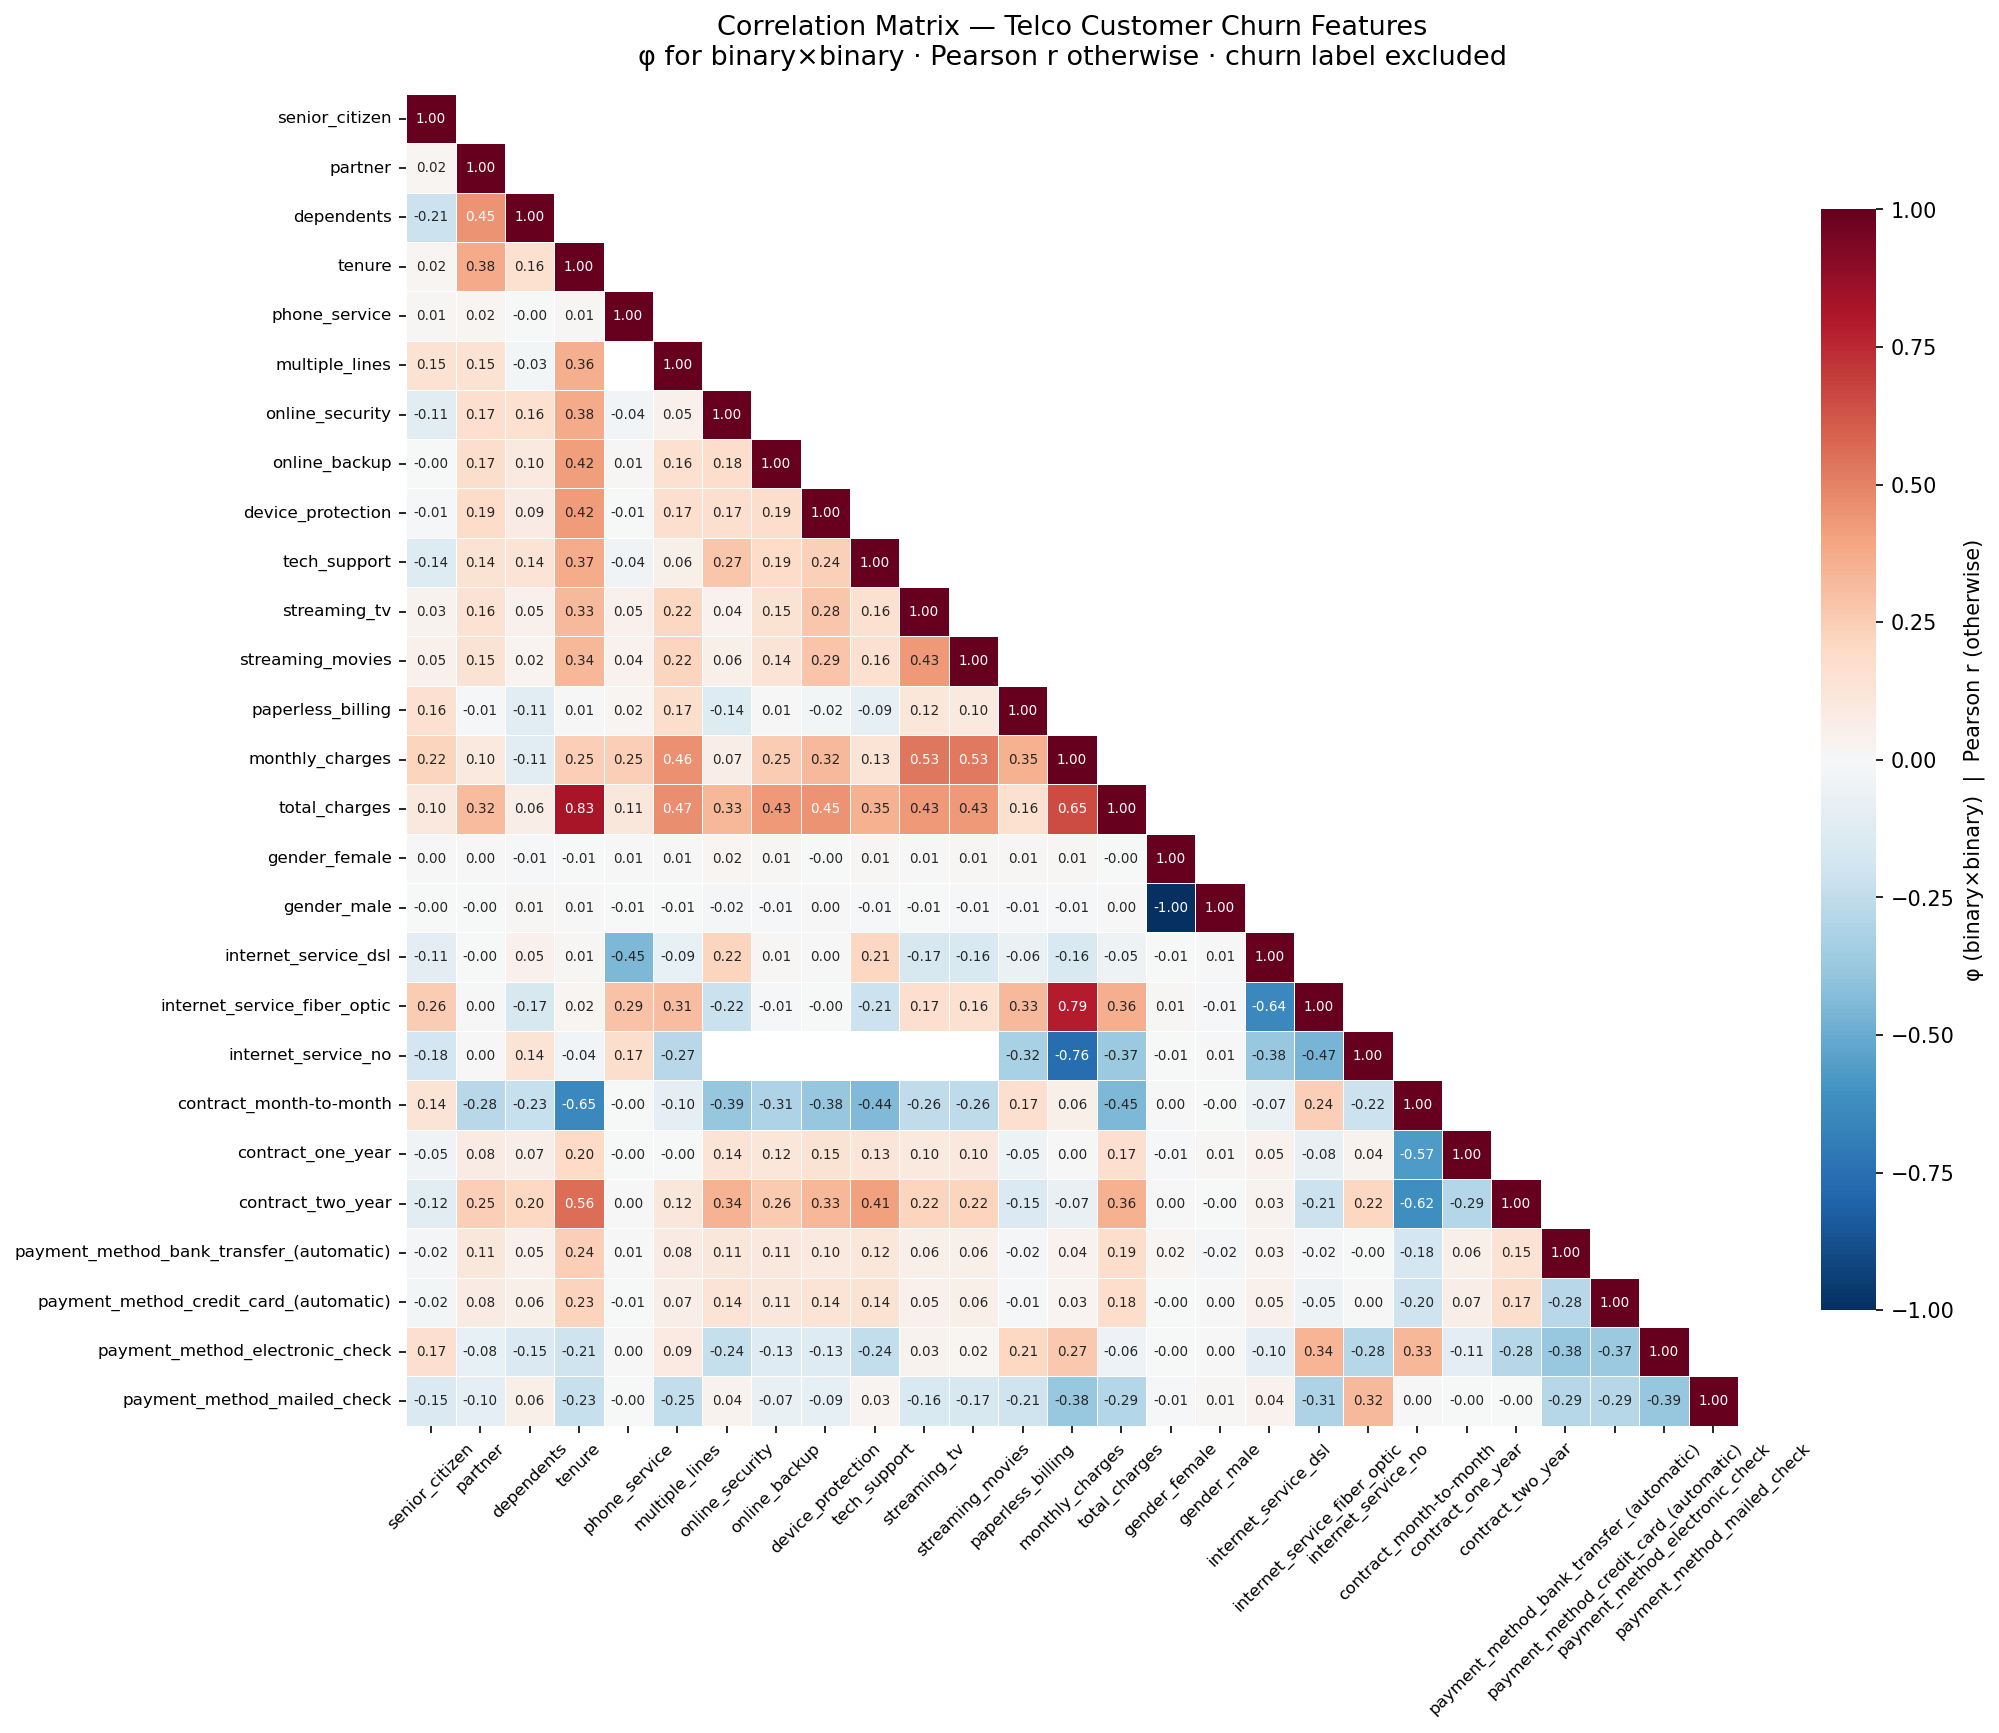
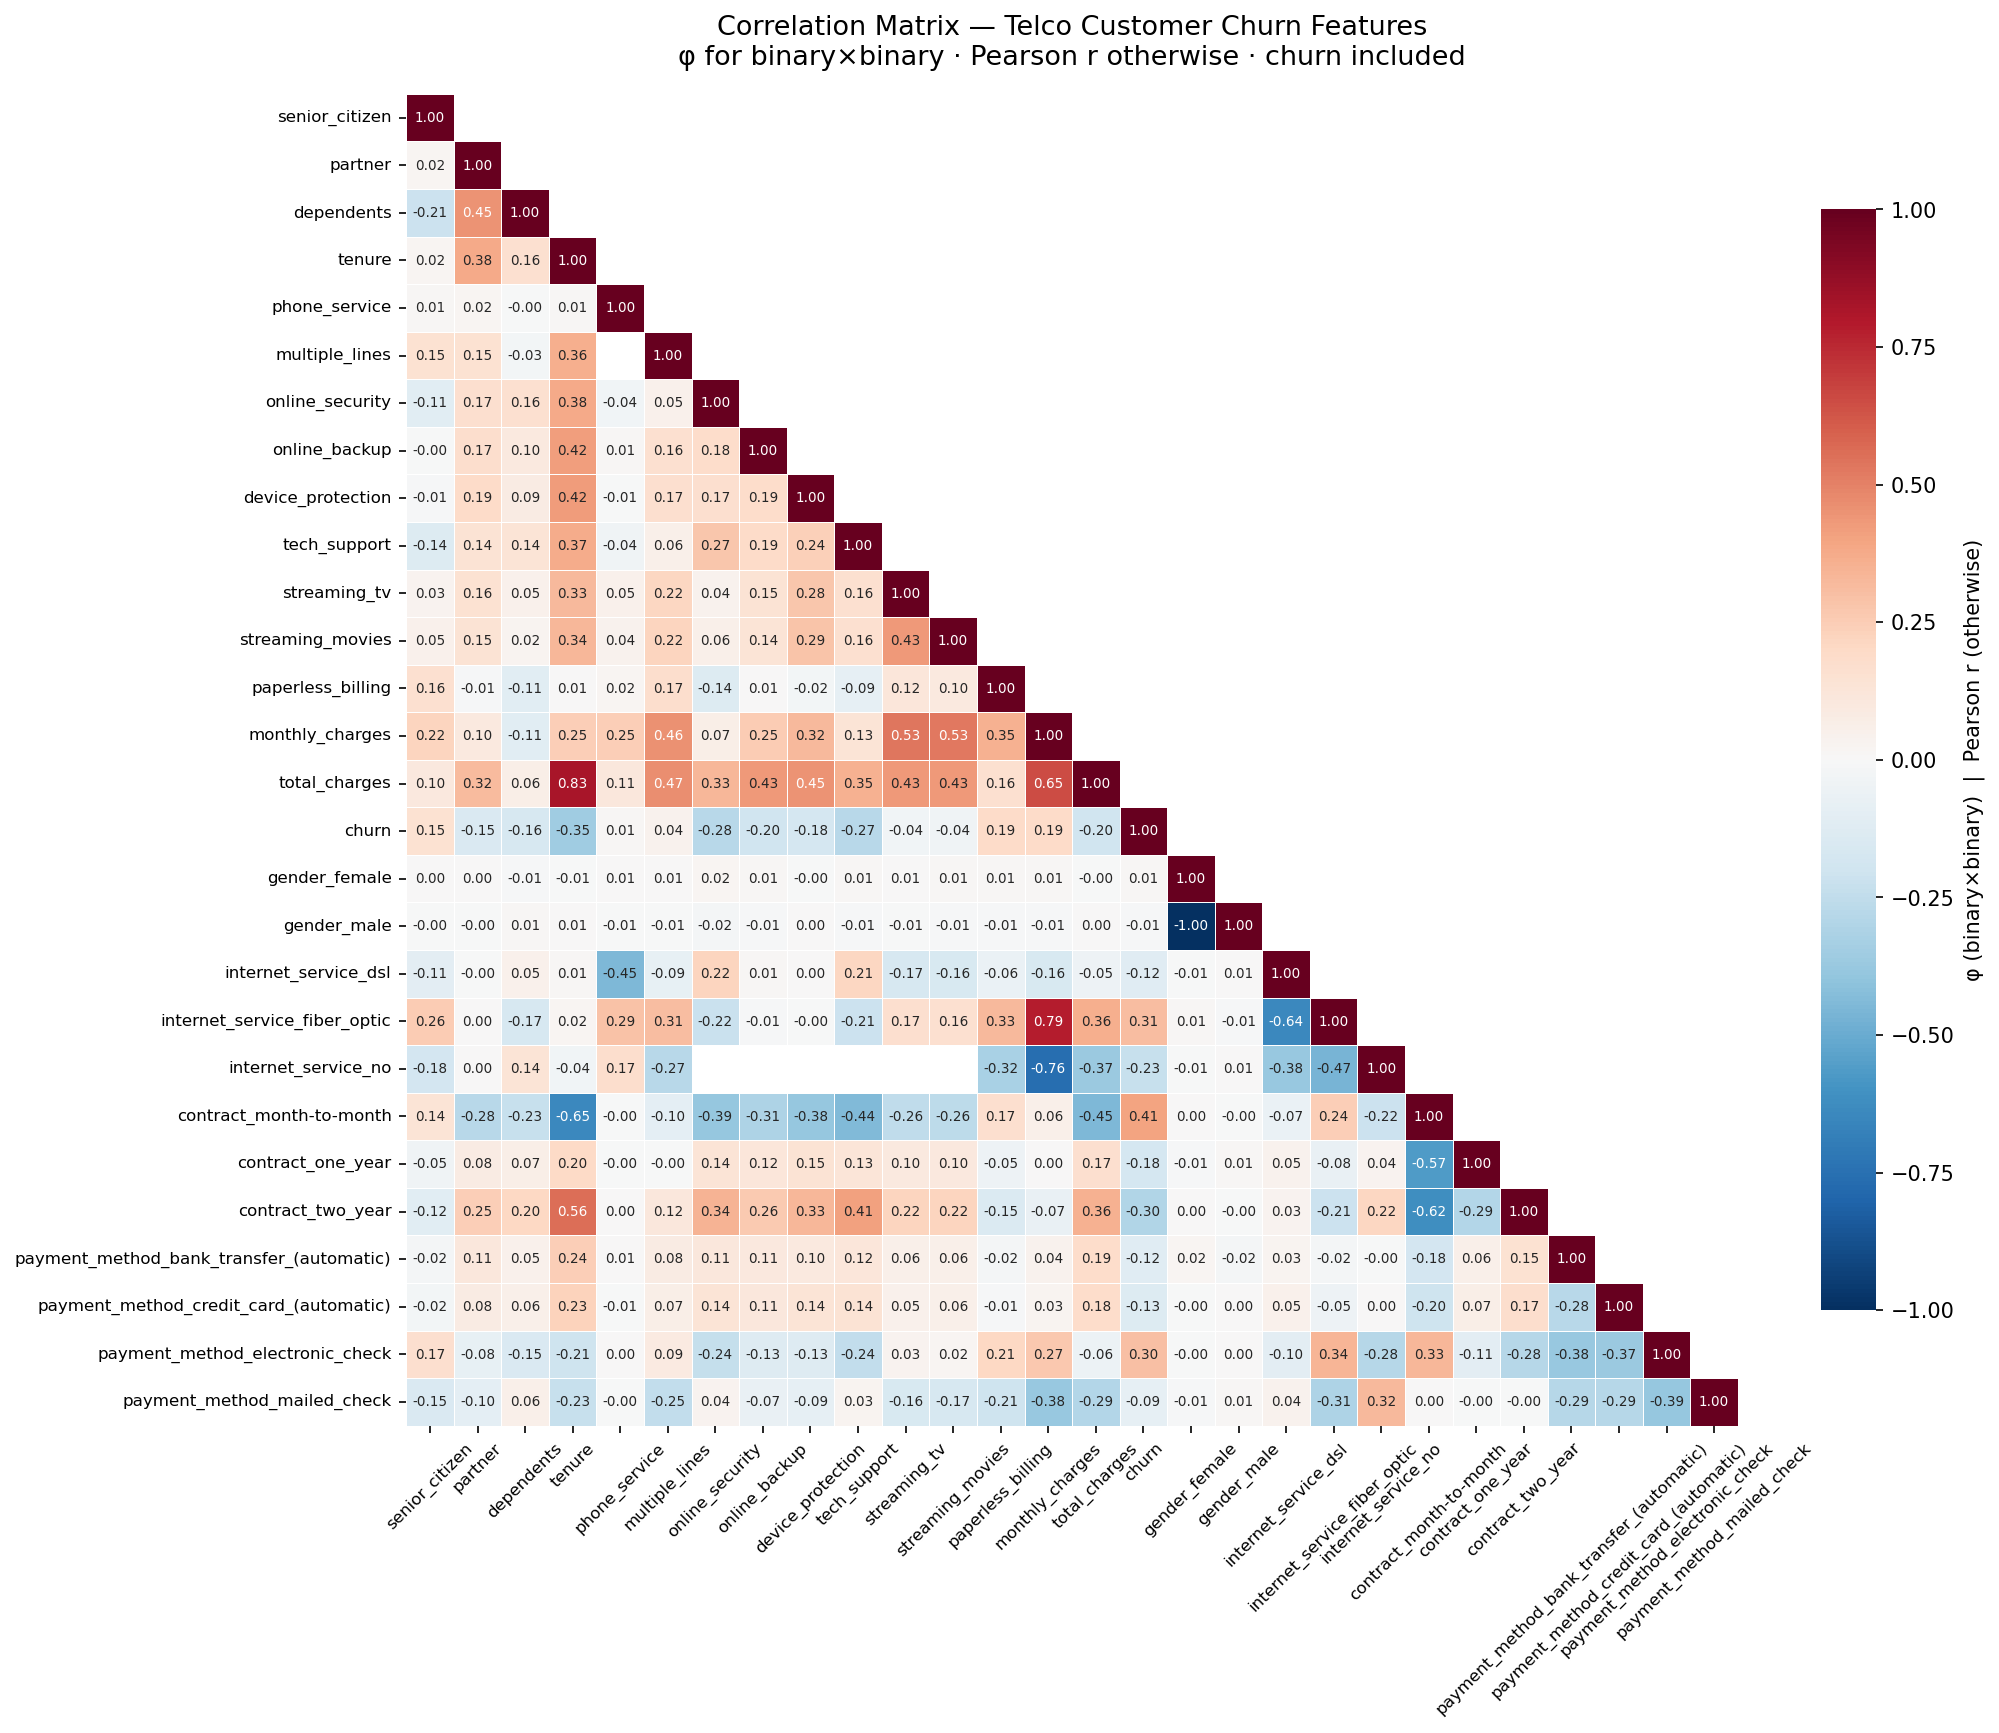
feat: include churn in correlation matrix
Removes the churn exclusion so correlations between churn and all
other features are visible in the matrix.

Changed region(s): [[0.0, 0.0623, 0.8994, 0.966], [0.3412, 0.0312, 0.7444, 0.0623], [0.7134, 0.966, 0.7444, 0.9971]]

diff --git a/correlationmatrix/correlation_matrix.py b/correlationmatrix/correlation_matrix.py
@@ -18,7 +18,7 @@ import scipy.stats as stats
 HERE = pathlib.Path(__file__).parent
 DATA = HERE.parent / "data" / "processed" / "cleaned_telco_customer_churn.csv"
 
-df = pd.read_csv(DATA).drop(columns=["churn"])
+df = pd.read_csv(DATA)
 
 # ── Column classification ─────────────────────────────────────────────────────
 binary_cols  = [c for c in df.columns if df[c].dropna().isin([0, 1]).all()]
@@ -90,7 +90,7 @@ sns.heatmap(
 
 ax.set_title(
     "Correlation Matrix — Telco Customer Churn Features\n"
-    "φ for binary×binary · Pearson r otherwise · churn label excluded",
+    "φ for binary×binary · Pearson r otherwise · churn included",
     fontsize=13,
     pad=14,
 )
